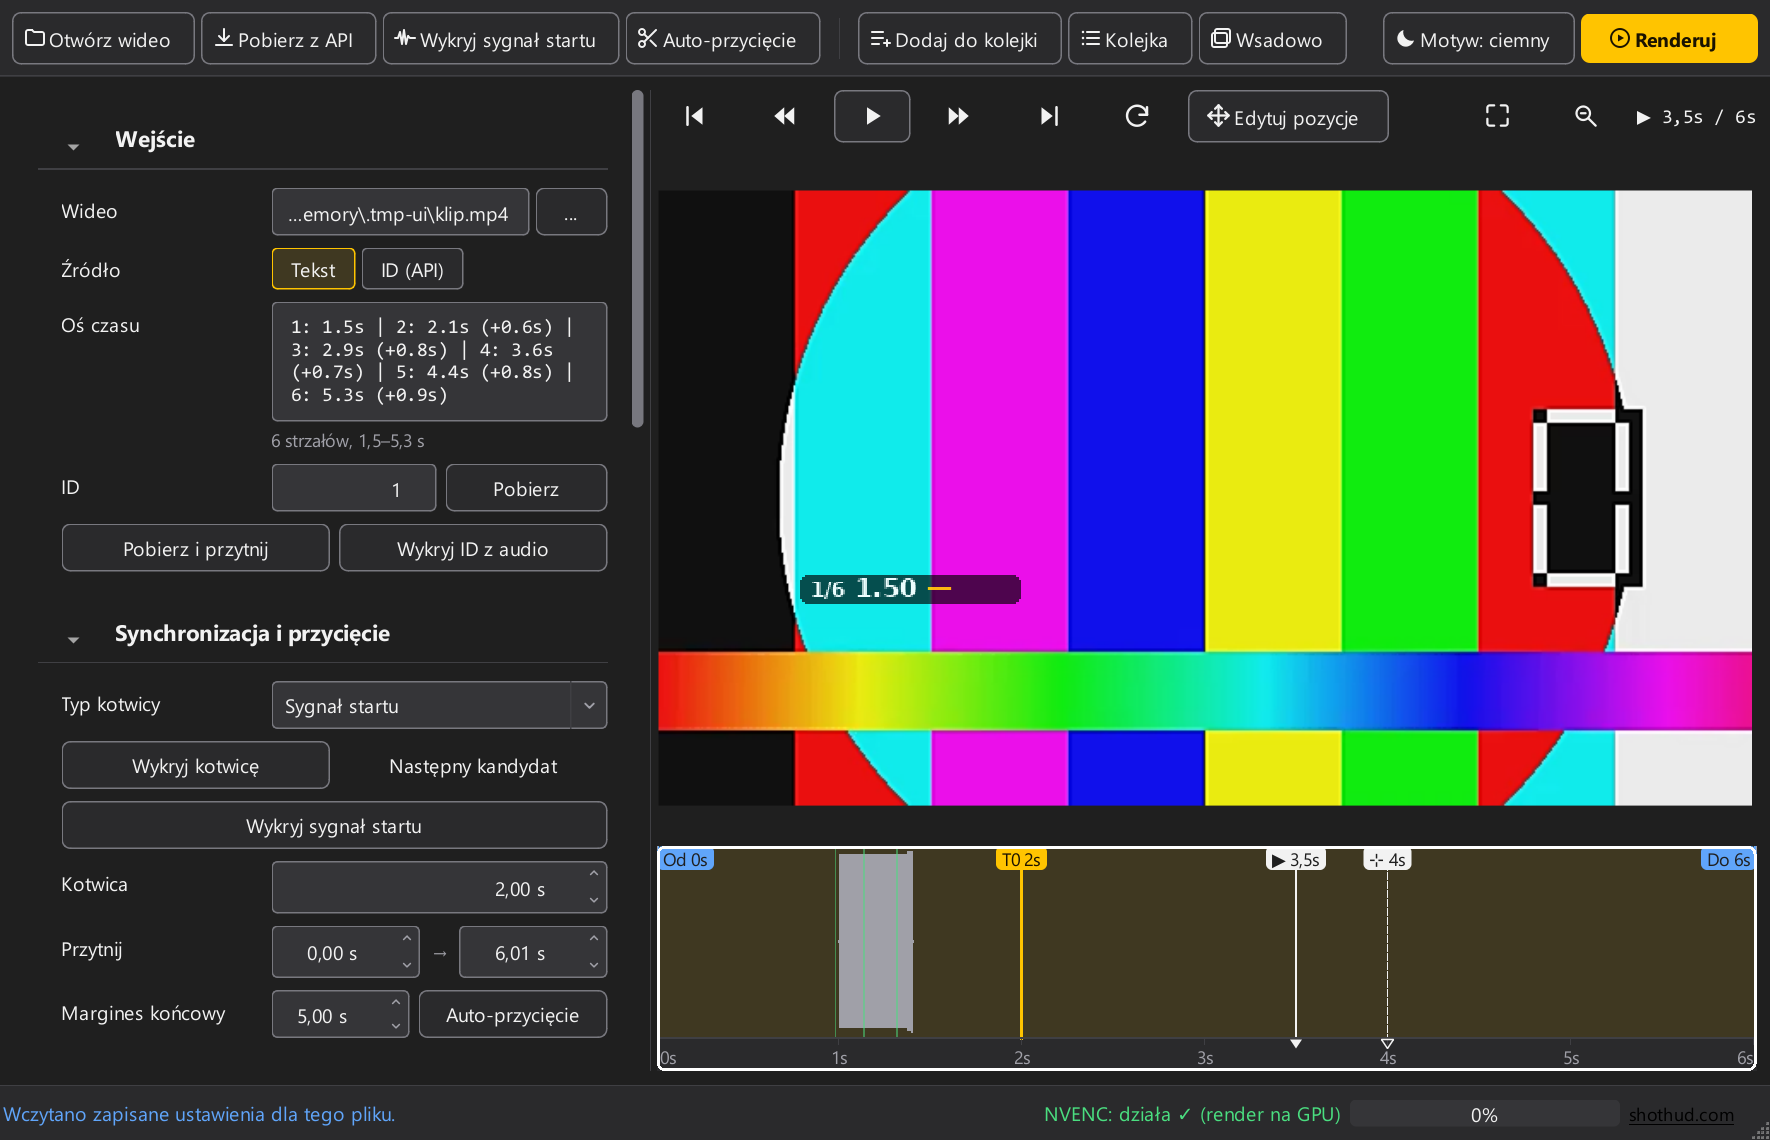
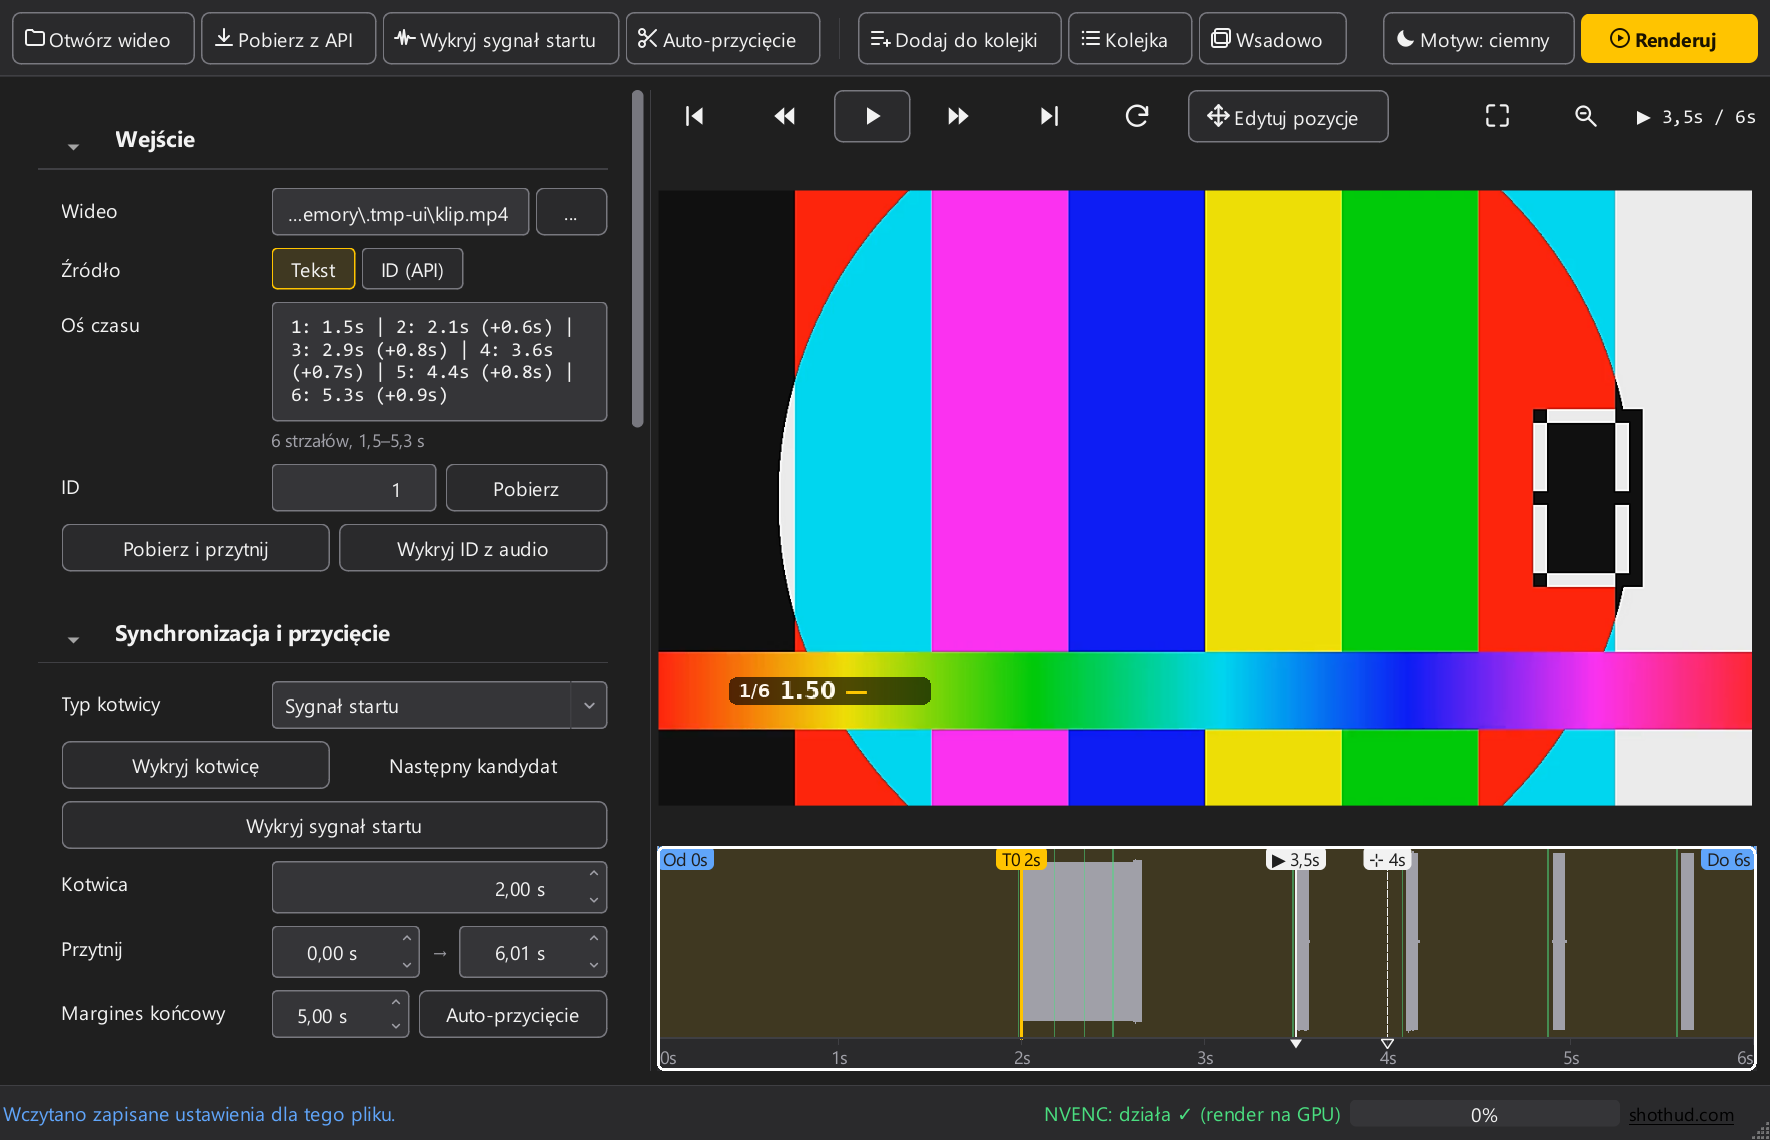
fix(ui): nakładki playera synchronizowane z pozycją w pauzie (stale po seeku) — v0.51.1
Widoczność nakładek zależała wyłącznie od `frame.startTime()` ostatniej klatki
z `videoFrameChanged`. Po `setPosition` w pauzie (i po rozgrzewaniu) backend
potrafi dosłać klatkę ze znacznikiem sprzed przewinięcia albo nie dosłać jej
wcale, więc scena zostawała na poprzednim zdarzeniu — zrzut `09-icons-dark.png`
pokazywał na 3,5 s planszę START zamiast panelu strzału 1 (jasny wariant tej
samej pozycji był poprawny, bo wyścig rozstrzygnął się inaczej).

`frame.startTime()` jest teraz używany tylko w `PlayingState`; w pauzie i po
zatrzymaniu scenę ustawia `player.position()` — także z `positionChanged`.
Po każdym przewinięciu leci jednorazowy `QTimer.singleShot(150 ms)`
(`_verify_seek_overlays`) sprawdzający zgodność sceny z pozycją, a klatki
starsze od pozycji o ponad 0,5 s są w pauzie ignorowane. Jedynym wejściem do
sceny jest `_sync_overlays(t)`.

Zweryfikowane pięcioma przewinięciami w pauzie (przed T0, plansza START,
strzał 1, strzał 3, podsumowanie) — widoczne zdarzenia zgodne z
`render.build_events` w każdym przypadku; zrzuty 09-icons-* odświeżone.

Claude-Session: https://claude.ai/code/session_01CfHTVr9tFHDfnRjaWpyFox

diff --git a/src/piro_overlay/gui.py b/src/piro_overlay/gui.py
@@ -105,6 +105,8 @@ _PLAYER_OVERLAY_H = 540
 _SEEK_STEP_S = 1.0             # J/L i przyciski „◀ 1 s” / „1 s ▶”
 _DEFAULT_FRAME_MS = 40         # krok klatki, gdy fps nagrania nieznany (25 fps)
 _PLAYER_REBUILD_MS = 200       # debounce przebudowy nakładek podglądu w ruchu
+_SEEK_VERIFY_MS = 150          # kontrola nakładek po przewinięciu w pauzie
+_FRAME_STALE_S = 0.5           # klatka starsza od pozycji o tyle = sprzed seeku
 _CLOCK_CACHE_MAX = 1200        # pixmapy zegara (co 0.1 s) trzymane między klatkami
 
 # Kandydaci na krok głównych kresek (major ticks) — od 0.05 s do 1 godziny.
@@ -4439,6 +4441,22 @@ class MainWindow(QMainWindow):
         self._update_preview_time()
         # W pauzie klatka przyjdzie asynchronicznie — nakładki ustawiamy od razu,
         # żeby panel nie „doganiał" obrazu o jedno zdarzenie.
+        self._sync_overlays(t)
+        # Klatka po przewinięciu bywa spóźniona ALBO przychodzi ze starym
+        # znacznikiem czasu (backend dosyła to, co miał w kolejce) — po chwili
+        # sprawdzamy, czy scena zgadza się z `position()`.
+        QTimer.singleShot(_SEEK_VERIFY_MS, self._verify_seek_overlays)
+
+    def _verify_seek_overlays(self) -> None:
+        if not self._player_active() or self._priming:
+            return
+        if self.player.playbackState() == QMediaPlayer.PlayingState:
+            return
+        self._sync_overlays(self.player.position() / 1000.0)
+
+    def _sync_overlays(self, t: float) -> None:
+        """Ustawia scenę (widoczność zdarzeń + zegar) na czas `t`."""
+        self._playhead_t = t
         self.player_page.update_time(t)
         self._update_player_clock(t)
 
@@ -4531,6 +4549,9 @@ class MainWindow(QMainWindow):
         self.waveform.set_playhead(t)
         self._update_preview_time()
         if self.player.playbackState() != QMediaPlayer.PlayingState:
+            # W pauzie JEDYNĄ wiarygodną osią czasu jest `position()`: klatki
+            # przychodzą rzadko i bywają sprzed przewinięcia.
+            self._sync_overlays(t)
             return
         end = self.trim_end_spin.value()
         if end > 0 and t >= end - 0.03:
@@ -4552,12 +4573,20 @@ class MainWindow(QMainWindow):
                 self._prime_pending = True
                 QTimer.singleShot(0, self._finish_prime)
             return
+        pos = self.player.position() / 1000.0
         start_us = frame.startTime()
-        t = (start_us / 1_000_000.0 if start_us >= 0
-             else self.player.position() / 1000.0)
-        self._playhead_t = t
-        self.player_page.update_time(t)
-        self._update_player_clock(t)
+        frame_t = start_us / 1_000_000.0 if start_us >= 0 else -1.0
+        if self.player.playbackState() != QMediaPlayer.PlayingState:
+            # PUŁAPKA (v0.51.1): po `setPosition` w pauzie backend potrafi dosłać
+            # klatkę ze znacznikiem SPRZED przewinięcia — nakładki zostawały wtedy
+            # na starym zdarzeniu (plansza START zamiast panelu strzału na zrzucie
+            # `09-icons-dark.png`). W pauzie prawdą jest `position()`, a wyraźnie
+            # spóźniona klatka jest ignorowana.
+            if frame_t >= 0 and pos - frame_t > _FRAME_STALE_S:
+                return
+            self._sync_overlays(pos)
+            return
+        self._sync_overlays(frame_t if frame_t >= 0 else pos)
 
     # --- nakładki ---
     def _schedule_player_rebuild(self) -> None:

diff --git a/src/piro_overlay/__init__.py b/src/piro_overlay/__init__.py
@@ -1,3 +1,3 @@
 """Piro Overlay — nakładka informacyjna o strzałach na wideo ze strzelania."""
 
-__version__ = "0.51.0"
+__version__ = "0.51.1"

diff --git a/CLAUDE.md b/CLAUDE.md
@@ -463,7 +463,17 @@ bez polegania na editable install w venv (nowe pip robią editable przez finder
   skalujemy przez `_scaled_style` do wysokości ORYGINAŁU (WYSIWYG jak dotąd).
   Synchronizacja nakładek idzie z `QVideoSink.videoFrameChanged` →
   `frame.startTime()` (µs) — dokładniejsze niż `positionChanged`, który zasila tylko
-  playhead i etykietę czasu. Zegar (`show_running_clock`) to jedyna nakładka zależna
+  playhead i etykietę czasu. **ALE tylko w `PlayingState` (v0.51.1):** w pauzie/po
+  zatrzymaniu jedyną wiarygodną osią czasu jest `player.position()`, bo po
+  `setPosition` backend potrafi dosłać klatkę ze znacznikiem SPRZED przewinięcia —
+  nakładki zostawały wtedy na starym zdarzeniu (realny objaw: zrzut
+  `09-icons-dark.png` pokazywał planszę START zamiast panelu strzału 1 na 3,5 s,
+  a jasny wariant tej samej pozycji był poprawny — czysta wyścigówka). Stąd trzy
+  bezpieczniki: `_sync_overlays(t)` jako jedyne wejście do sceny; `_on_player_position`
+  synchronizuje scenę także poza odtwarzaniem; `_seek` dokłada jednorazowy
+  `QTimer.singleShot(_SEEK_VERIFY_MS=150)` → `_verify_seek_overlays` (kontrola, czy
+  scena zgadza się z `position()`), a klatki starsze od pozycji o ponad
+  `_FRAME_STALE_S=0.5` s są w pauzie ignorowane. Zegar (`show_running_clock`) to jedyna nakładka zależna
   od czasu: `render_clock_panel` z `fixed_size=clock_panel_max_size(...)`, treść
   liczona co dziesiątą sekundy i keszowana po tej wartości (`_clock_cache`,
   `_CLOCK_CACHE_MAX`), zamrożona na ostatnim strzale — jak w renderze. Przebudowa

diff --git a/readme.md b/readme.md
@@ -3,7 +3,7 @@
 > **Autor:** Jarosław Zjawiński — [kontakt@zjawa.it](mailto:kontakt@zjawa.it) / [szkolenia@pifpaf.fun](mailto:szkolenia@pifpaf.fun)
 > **Strona projektu:** [shothud.com](https://shothud.com) (marka ShotHUD)
 > **Licencja:** [GPL v3](LICENSE) — dystrybucja i modyfikacje wymagają podania oryginalnego autora oraz udostępnienia kodu źródłowego.
-> **Wersja:** 0.51.0
+> **Wersja:** 0.51.1
 > **Dokumentacja wersji web (Docker/deploy):** [readme_web.md](readme_web.md)
 
 Aplikacja desktop (Python + PySide6), która na podstawie **wideo ze strzelania** oraz
